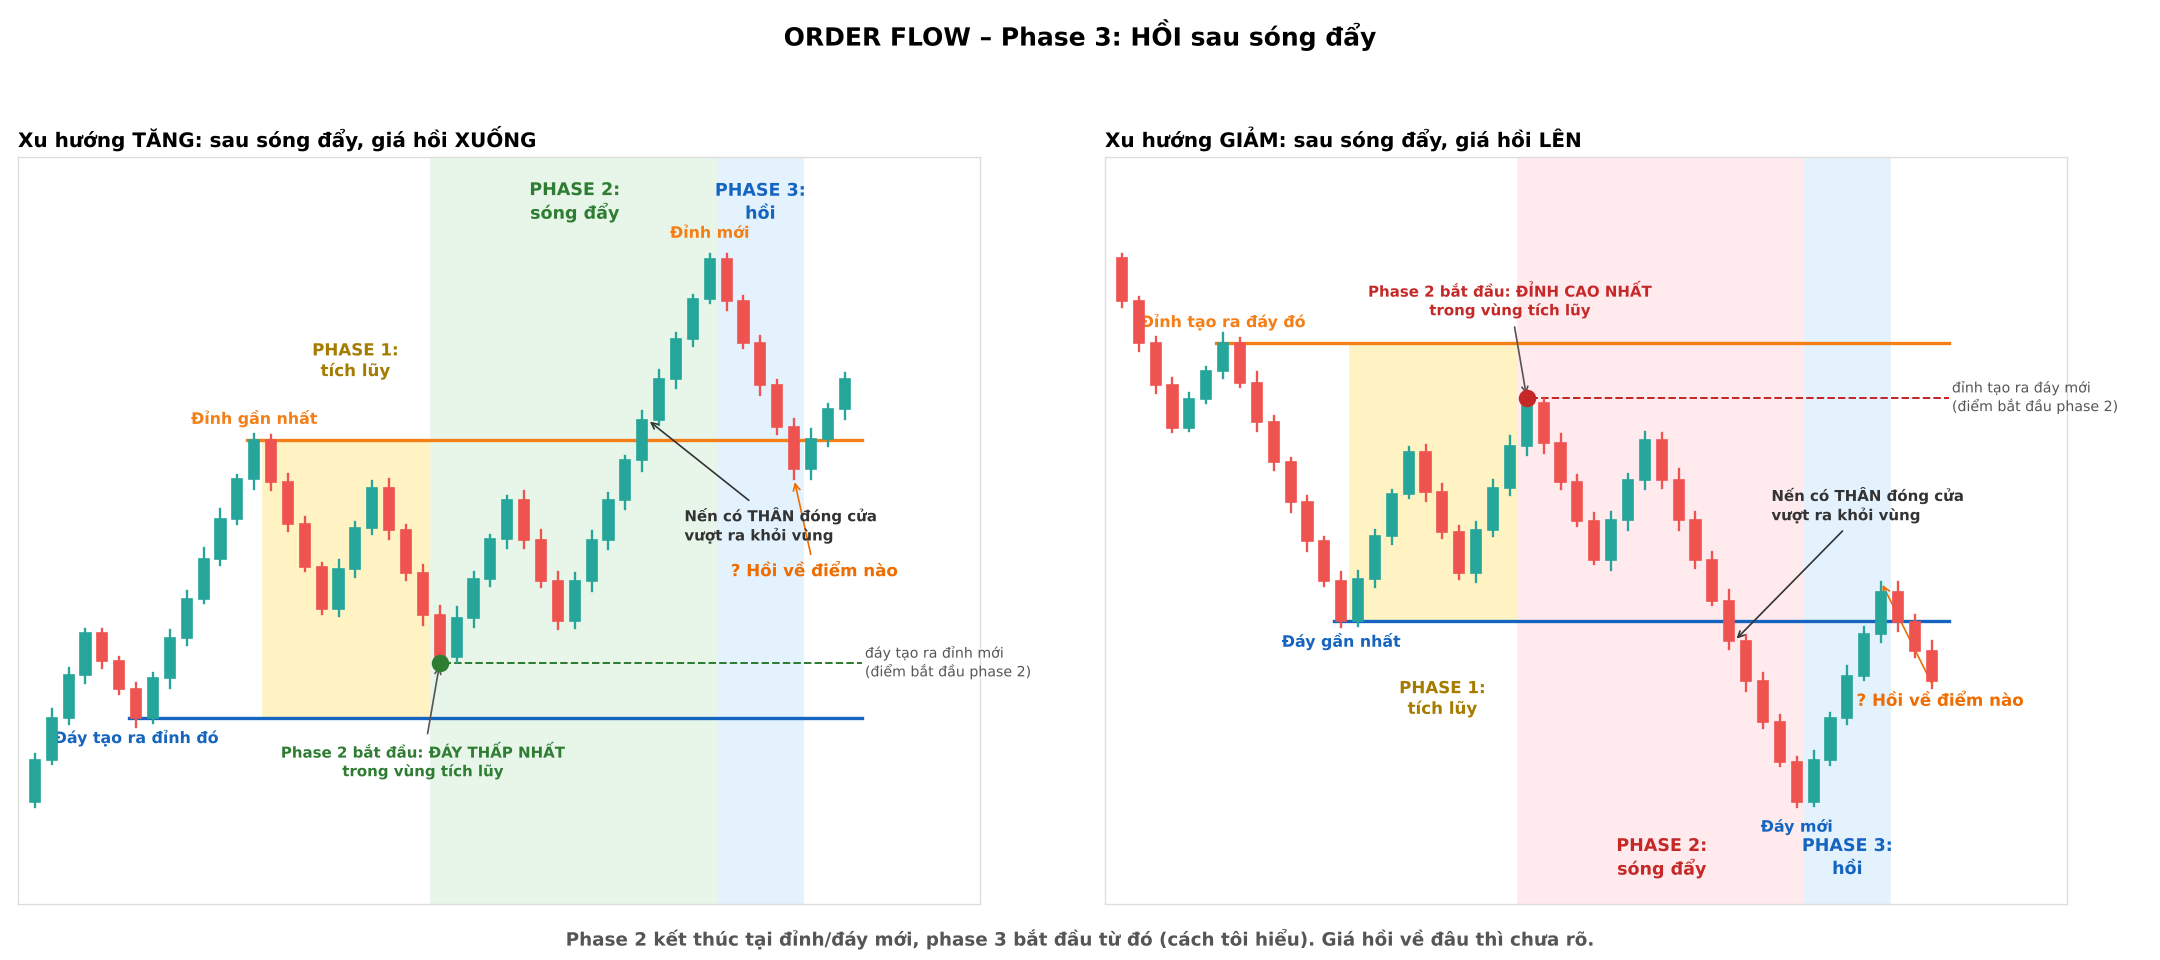
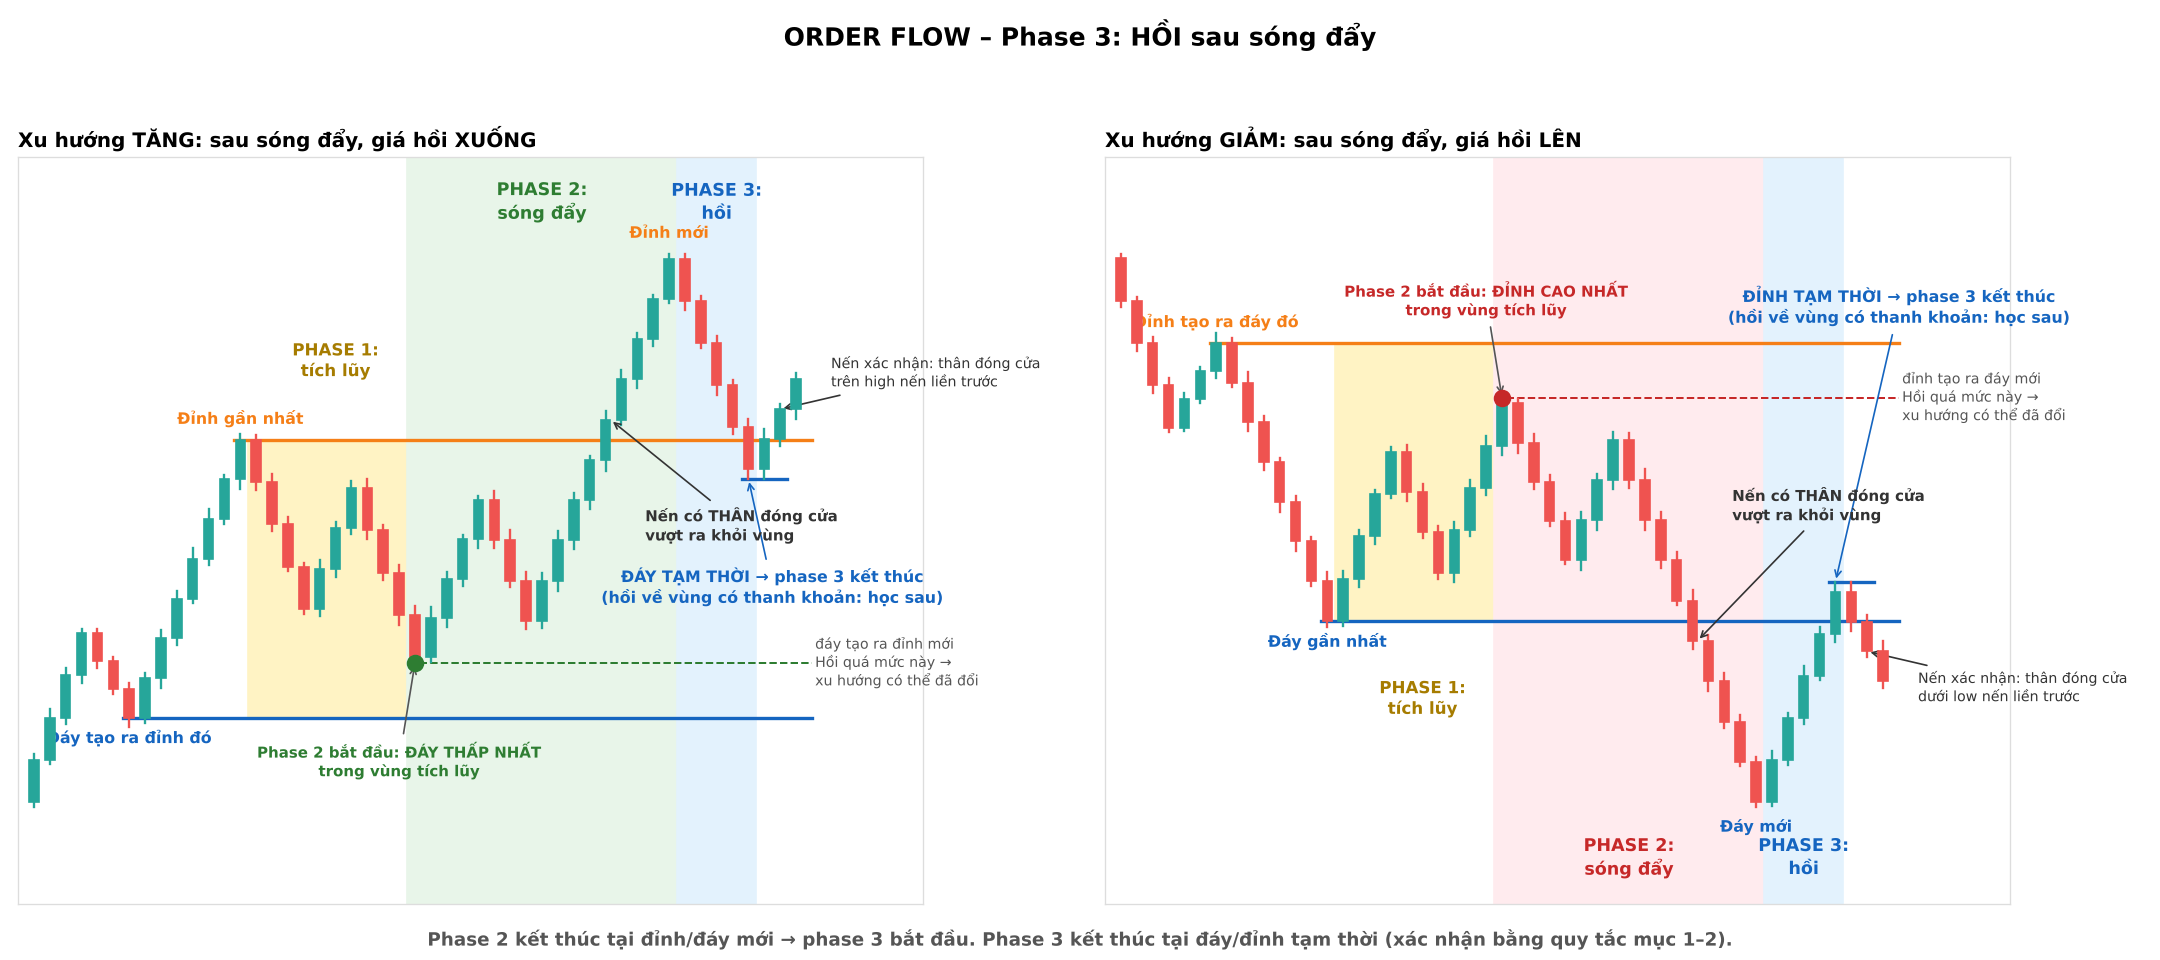
Order flow phase 3: chốt điểm bắt đầu/kết thúc, vẽ lại hình
Claude-Session: https://claude.ai/code/session_01QDQqkxbAsnss6apbWZAP33

diff --git a/knowledge/03-setup.md b/knowledge/03-setup.md
@@ -98,15 +98,14 @@ Ví dụ chart thật: `examples/01-dinh-day-xauusd-h4.jpg`
 - **"Vượt qua"** = có nến có **thân đóng cửa ra ngoài vùng** tích lũy, giống quy tắc phá vỡ (đã chốt tạm thời).
 - **Phase 2 bắt đầu** từ **đáy THẤP NHẤT trong vùng tích lũy** (xu hướng tăng), hoặc **đỉnh CAO NHẤT trong vùng tích lũy** (xu hướng giảm). Không phải đáy/đỉnh cuối cùng trong vùng (đã chốt tạm thời).
 - Chưa chốt:
-  - Phase 2 kết thúc ở đâu (ở đỉnh mới?).
 
 **Phase 3: HỒI** (người dùng đã giảng)
 - Sau khi giá đã được đẩy lên một đoạn (phase 2), giá **hồi về một điểm nào đó**. Đó là phase 3.
-- Cách hiểu của Claude (chờ duyệt): phase 2 kết thúc tại đỉnh mới (xu hướng tăng) / đáy mới (xu hướng giảm), phase 3 bắt đầu từ đó.
+- **Phase 2 kết thúc** tại đỉnh mới (xu hướng tăng) / đáy mới (xu hướng giảm), và **phase 3 bắt đầu từ đó** (đã xác nhận).
 - Minh họa: `examples/13-order-flow-phase3.png`
 - **Hồi về đâu:** về **vùng có thanh khoản**. Sẽ thảo luận chi tiết sau (bài thanh khoản).
 - **Hồi sâu quá đáy tạo ra đỉnh mới** (xu hướng tăng) / **quá đỉnh tạo ra đáy mới** (xu hướng giảm): lúc này **xu hướng có thể đã thay đổi**.
 - **Phase 3 kết thúc** khi giá tạo **đáy tạm thời** (xu hướng tăng) hoặc **đỉnh tạm thời** (xu hướng giảm).
-- Chưa chốt: đáy/đỉnh tạm thời được xác nhận bằng quy tắc mục 1–2 (nến có thân đóng cửa qua high/low của nến liền trước)?
+- **Đáy/đỉnh tạm thời** được xác nhận bằng **quy tắc mục 1–2** (nến có thân đóng cửa qua high/low của nến liền trước) (đã xác nhận).
 
 **Phase 4:** chưa học.
